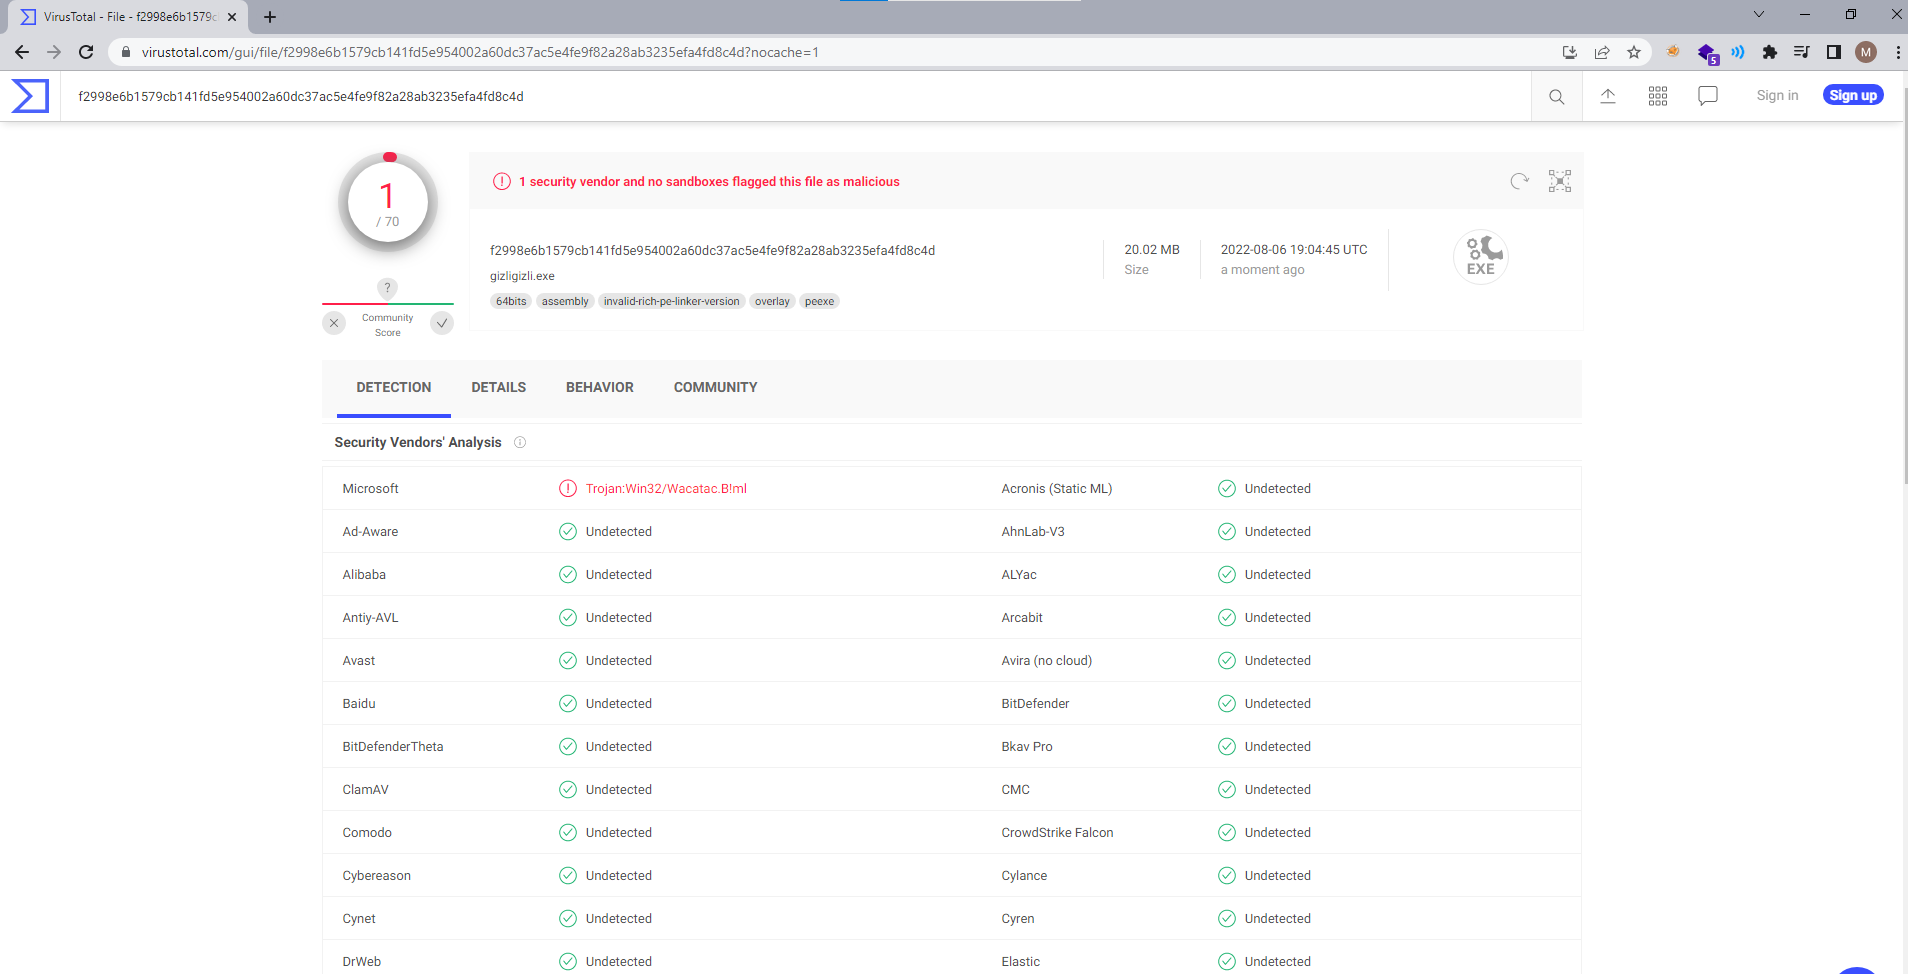
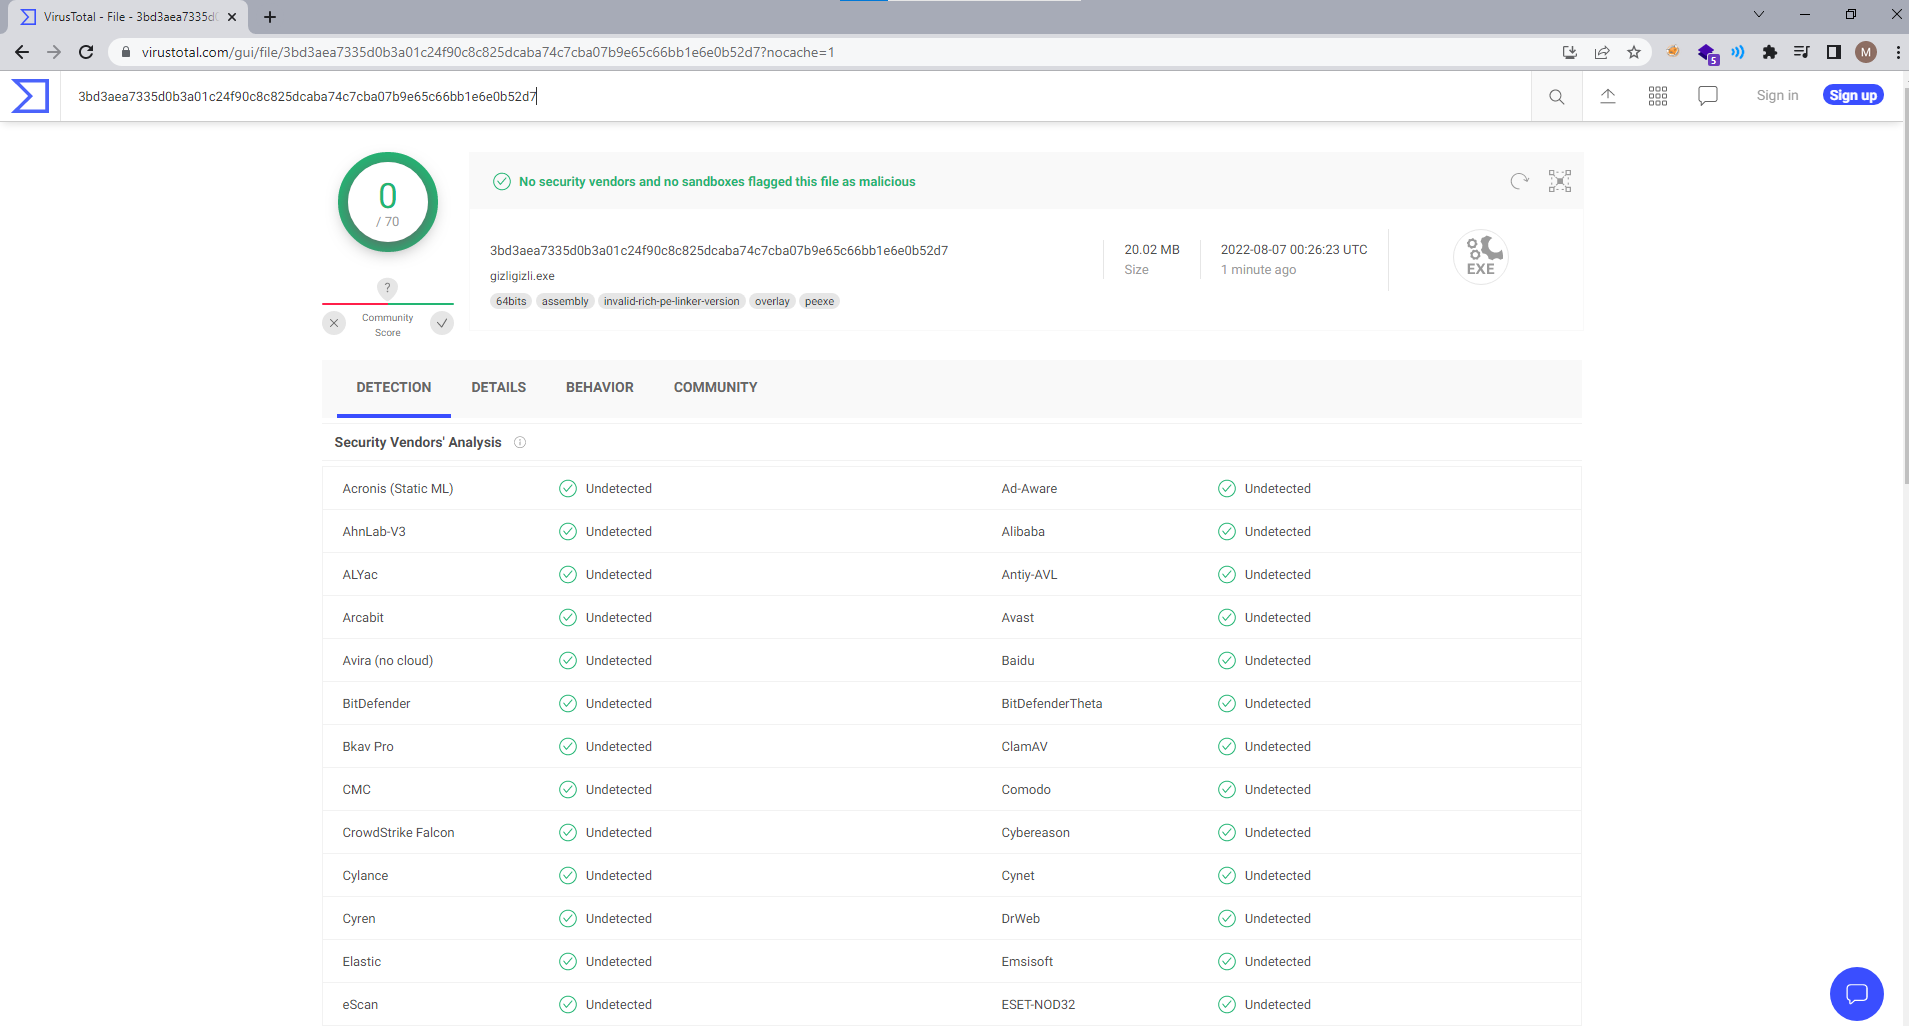
Virus total update

diff --git a/gizligizli.py b/gizligizli.py
@@ -229,8 +229,8 @@ if __name__ == "__main__":
 
     parser = argparse.ArgumentParser()
     parser.add_argument("-sc", "--shellcode", dest="sc_path", default="shellcode.bin", help="shellcode.bin location")
-    parser.add_argument("-i", "--icon", dest="icon_path", default="default.ico", help="Custom icon location, default is gizligizli.ico")
-    parser.add_argument("-v", "--verbose", dest="verbose", default=False, action='store_true', help="Custom icon location, default is gizligizli.ico")
+    parser.add_argument("-i", "--icon", dest="icon_path", default="default.ico", help="Custom icon location, default is default.ico")
+    parser.add_argument("-v", "--verbose", dest="verbose", default=False, action='store_true', help="verbosity")
 
     args = parser.parse_args()
 

diff --git a/README.md b/README.md
@@ -35,9 +35,14 @@ Top left pixel holds the shellcode length. For example, if the shellcode length 
 
 Every byte in the shellcode is embedded into shellcode length many pixels.  They are embedded into R values. This is possible as each channel can have values between 0x00-0xff.
 
-Virustotal results, ( Microsoft too wasn't detecting it at first but somehow it made it to their db :D )
+Virustotal results,
 
 ![Virustotal](images/virustotal.png)
+
+If defender starts detecting it, just change the icon simply :D 
+
+Use a `48x48` image.
+
 
 # Demo
 
